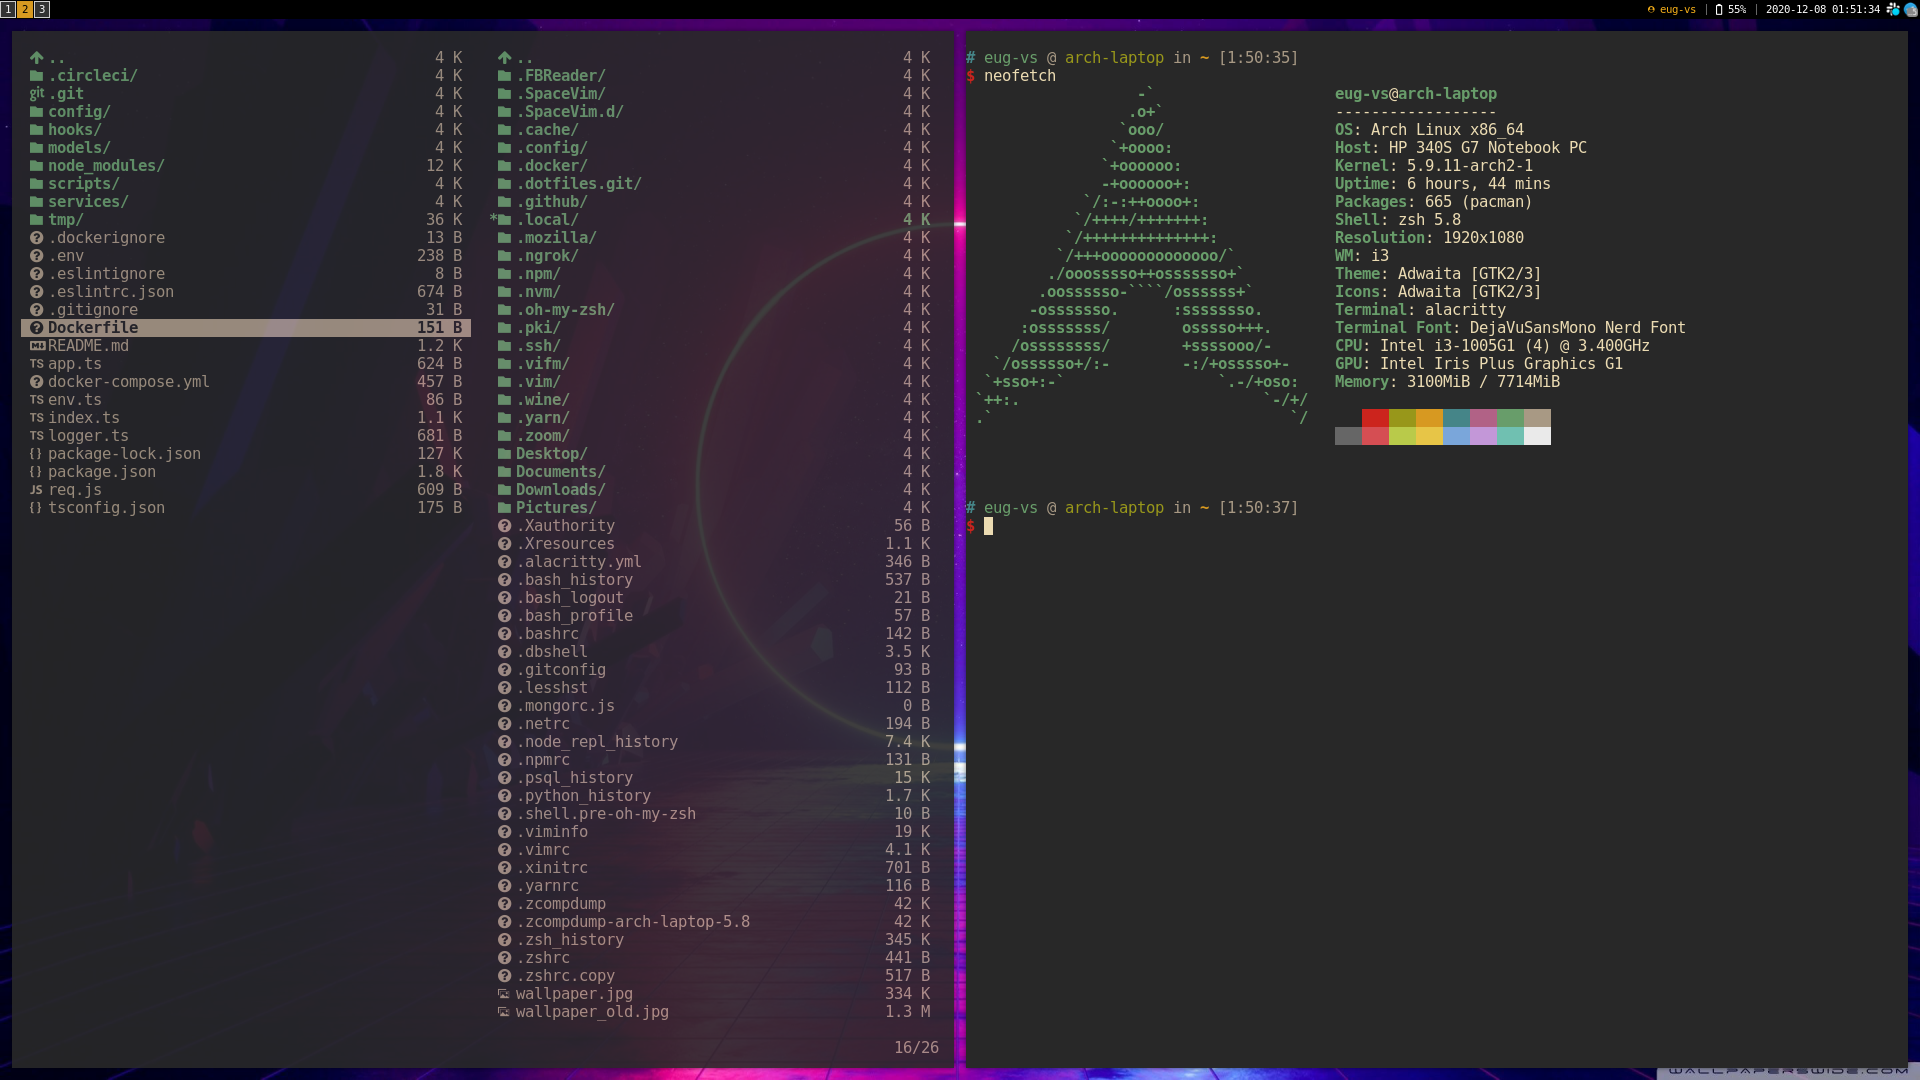
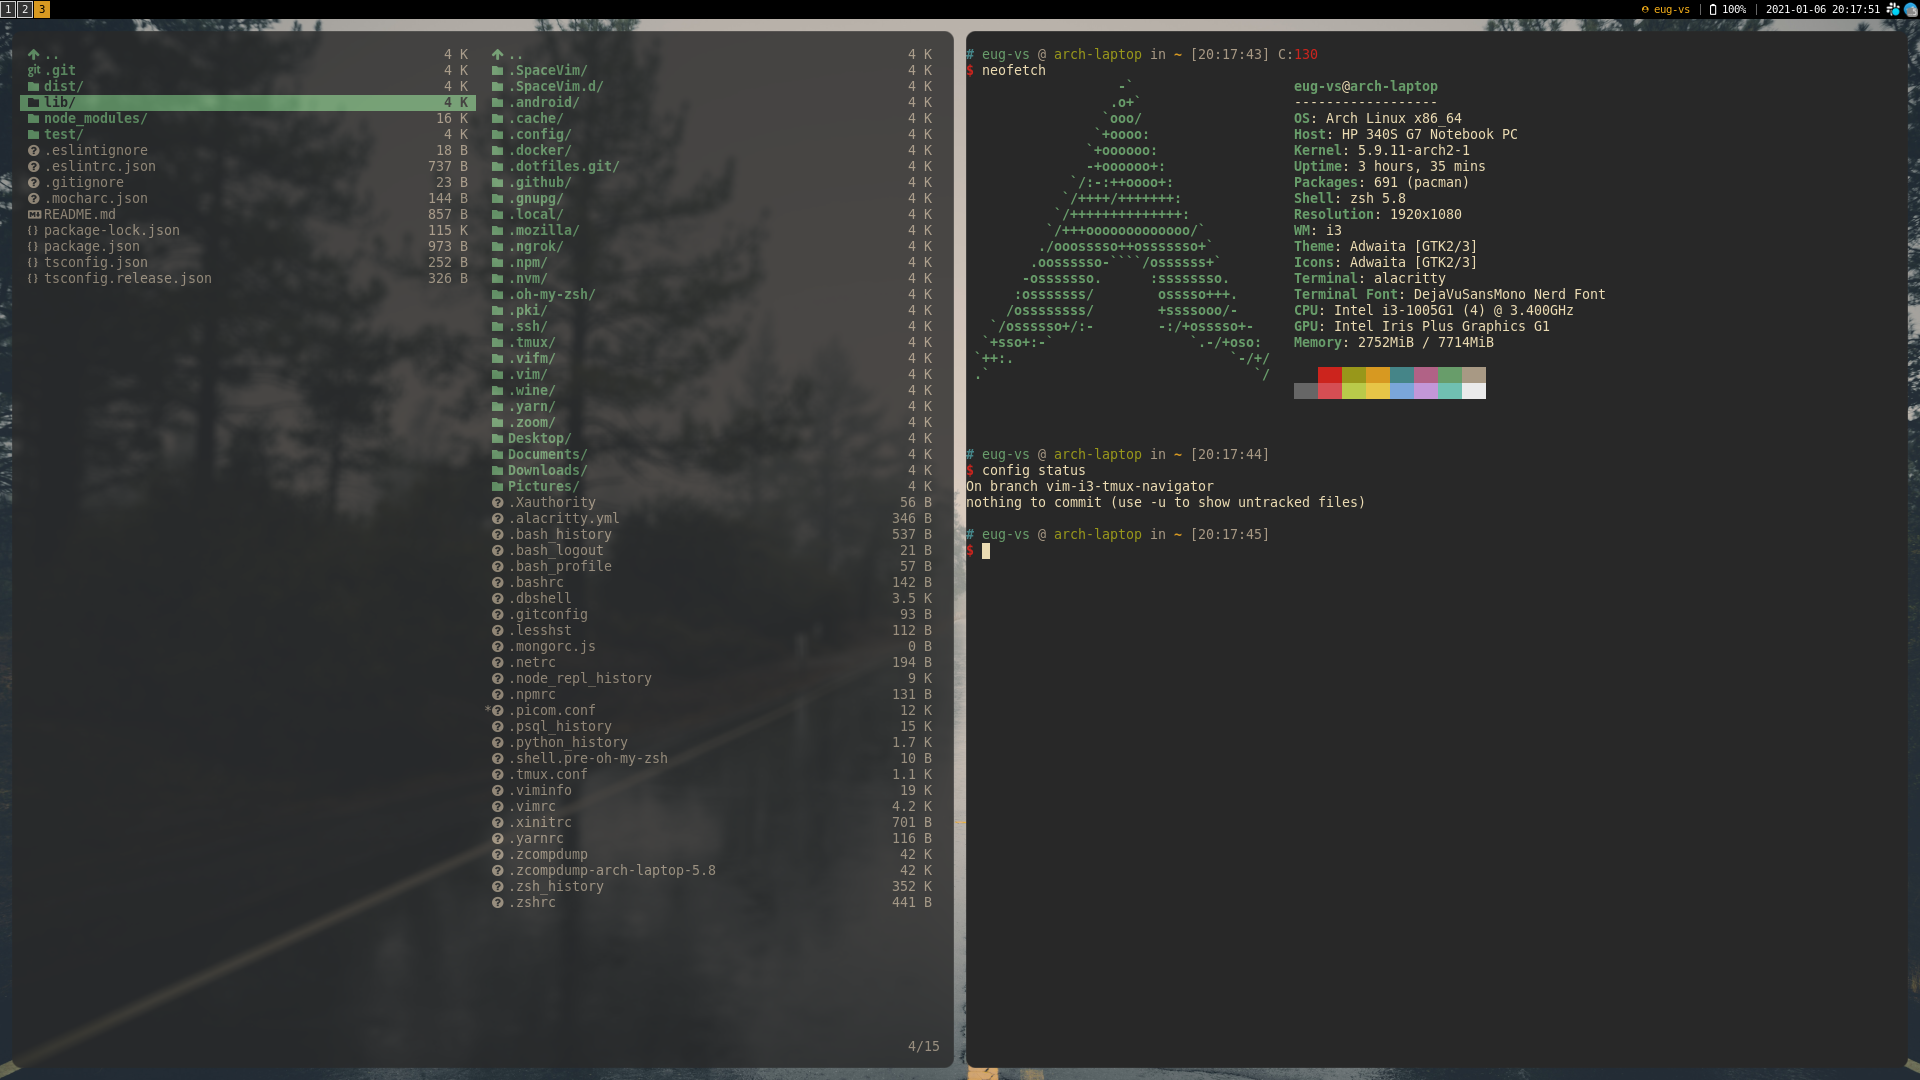
docs: update screenshots

Changed region(s): [[0.0, 0.0, 1.0, 1.0], [0.625, 0.3972, 0.6562, 0.4278]]

diff --git a/.github/README.md b/.github/README.md
@@ -25,6 +25,7 @@ Documentation: [wiki](../Documents/wiki/index.md)
 5. Run `config checkout master`
 
 ## Screenshots
-![project-layout](../Pictures/Porn/project-layout.png)
 ![neofetch](../Pictures/Porn/neofetch.png)
+![project-layout](../Pictures/Porn/project-layout.png)
+![spotify](../Pictures/Porn/spotify.png)
 
